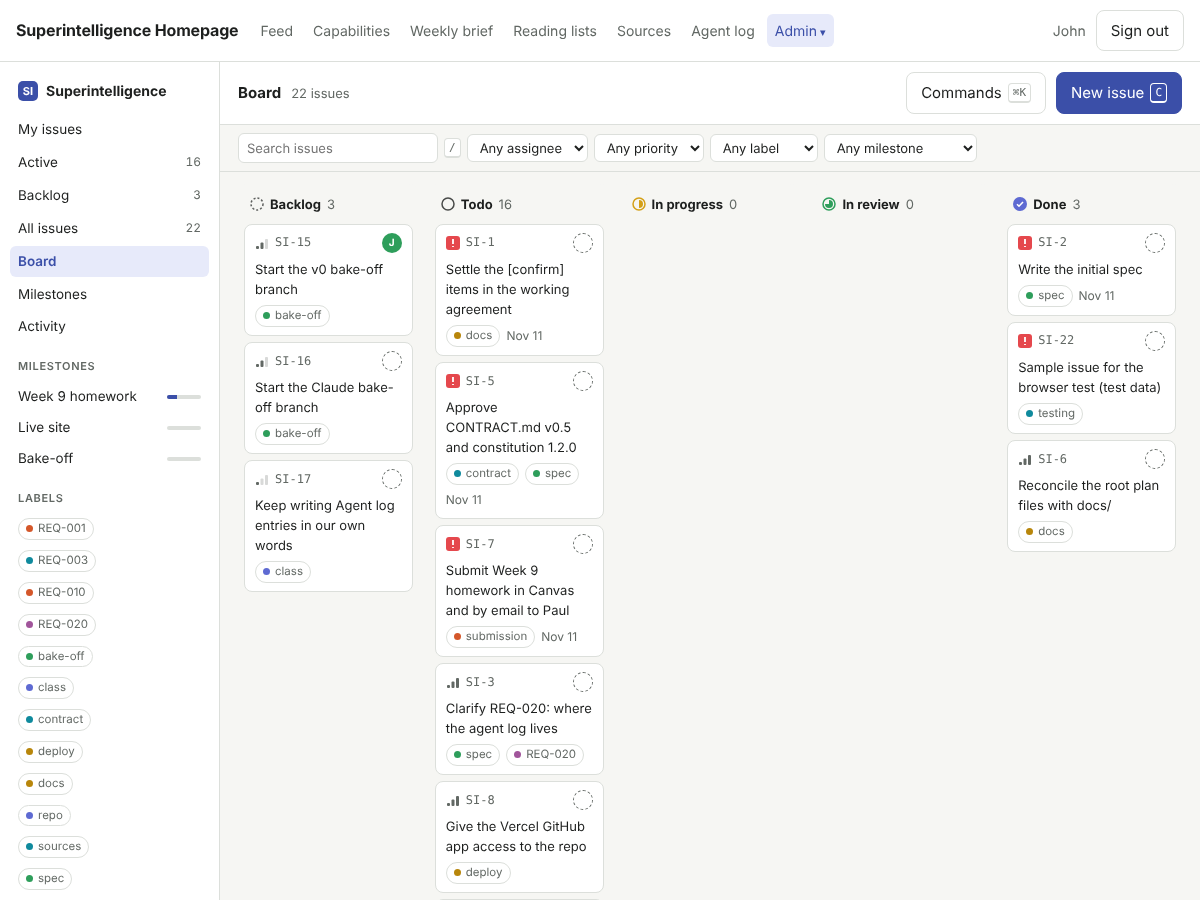
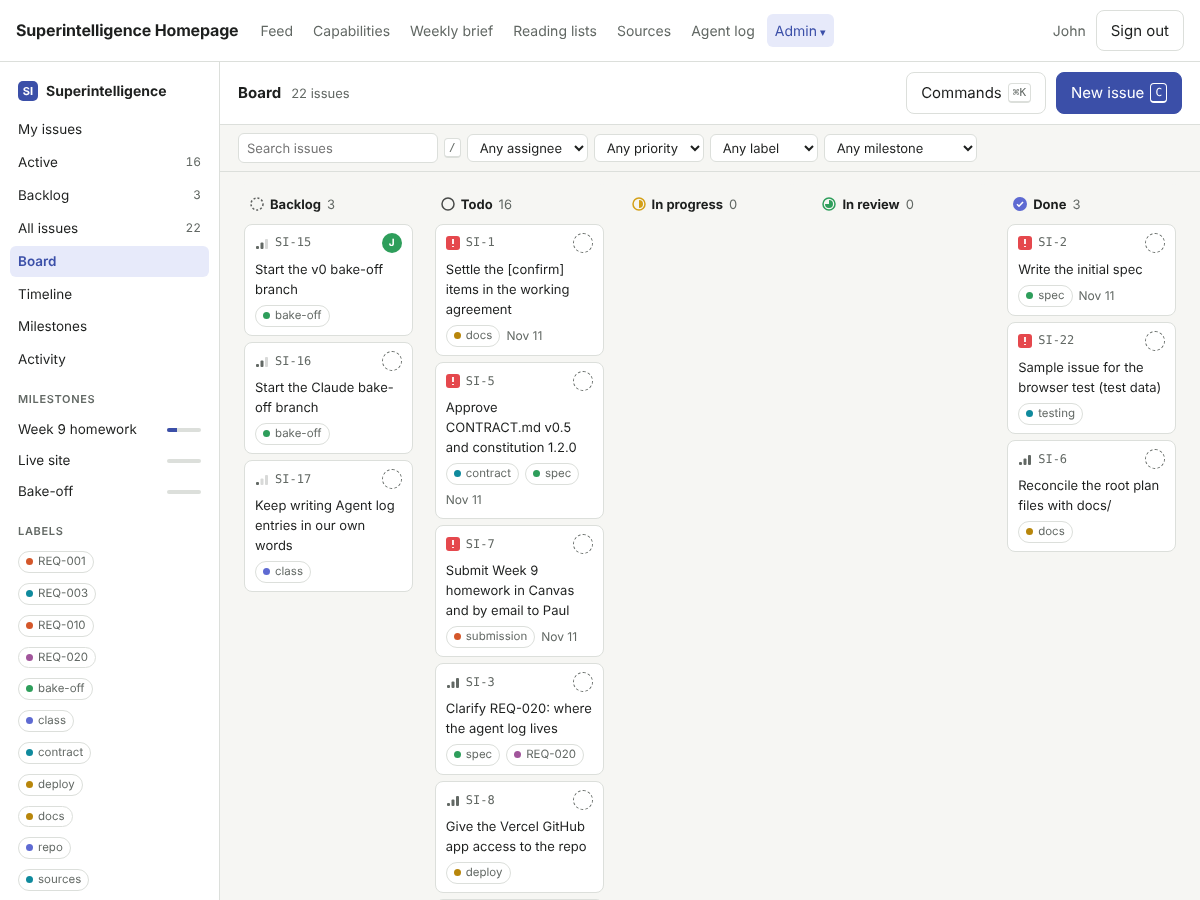
Project timeline: start dates, dependencies, conflict warnings, drag to reschedule
Process tooling (no product REQ). project_deps table and start_date column;
deps routes refuse self-links and loops; conflicts computed on the server.
Timeline view with day/week/month zoom, milestone groups, arrows, undo.
Browser test: 147 passed, 0 failed on SQLite and Postgres.

Changed region(s): [[0.0, 0.3111, 0.1233, 0.9956]]

diff --git a/modules/project/pages/project.html b/modules/project/pages/project.html
@@ -79,6 +79,30 @@
   .pal input { width: 100%; font: inherit; font-size: 15px; padding: 14px 16px; border: 0; border-bottom: 1px solid var(--line); background: none; color: var(--fg); outline: none; }
   .pal ul { list-style: none; margin: 0; padding: 6px; max-height: 50vh; overflow: auto; } .pal li { padding: 8px 10px; border-radius: 6px; font-size: 14px; display: flex; gap: 8px; align-items: center; cursor: pointer; }
   .pal li.on { background: var(--accent-soft); color: var(--accent); } .pal li .h { margin-left: auto; color: var(--muted); font-size: 12px; }
+  /* timeline */
+  .tlbar-top { display: flex; gap: 10px; align-items: center; padding: 10px 18px; flex-wrap: wrap; border-bottom: 1px solid var(--line); }
+  .tl { display: grid; grid-template-columns: 280px max-content; overflow: auto; max-height: calc(100vh - 220px); position: relative; }
+  .tlleft { position: sticky; left: 0; z-index: 3; background: var(--surface); border-right: 1px solid var(--line); }
+  .tlhead { height: 44px; position: sticky; top: 0; z-index: 2; background: var(--surface); border-bottom: 1px solid var(--line); }
+  .tlright .tlhead { position: sticky; top: 0; }
+  .tlm { position: absolute; top: 4px; font-size: 12px; font-weight: 600; } .tlt { position: absolute; top: 24px; font-size: 11px; color: var(--muted); transform: translateX(2px); }
+  .tlrow { height: 34px; display: flex; align-items: center; gap: 8px; padding: 0 12px; font-size: 13px; border-bottom: 1px solid var(--line); cursor: pointer; white-space: nowrap; overflow: hidden; }
+  .tlrow .key { font-family: var(--mono); font-size: 11px; color: var(--muted); } .tlrow .t { overflow: hidden; text-overflow: ellipsis; }
+  .tlrow.tlg { background: var(--bg); cursor: default; } .tlrow.tlg .n { color: var(--muted); font-size: 12px; }
+  .tlgrid { position: relative; background-image: linear-gradient(var(--line) 1px, transparent 1px); background-size: 100% 34px; }
+  .tlgrid .we { position: absolute; top: 0; bottom: 0; background: var(--bg); opacity: .6; }
+  .tlgrid .today { position: absolute; top: 0; bottom: 0; width: 0; border-left: 2px solid var(--accent); z-index: 1; } .tlgrid .today span { position: absolute; top: -2px; left: -22px; font-size: 10px; background: var(--accent); color: #fff; border-radius: 9px; padding: 0 6px; }
+  .tlbar { position: absolute; height: 22px; border-radius: 6px; background: var(--surface); border: 1px solid var(--accent); font-size: 12px; display: flex; align-items: center; gap: 6px; padding: 0 8px; overflow: hidden; cursor: grab; z-index: 2; touch-action: none; user-select: none; white-space: nowrap; }
+  .tlbar .fill { position: absolute; left: 0; top: 0; bottom: 0; background: var(--accent-soft); z-index: -1; } .tlbar .lbl2 { overflow: hidden; text-overflow: ellipsis; } .tlbar .pct { margin-left: auto; color: var(--muted); font-size: 11px; }
+  .tlbar .h { position: absolute; top: 0; bottom: 0; width: 7px; cursor: ew-resize; } .tlbar .h.l { left: 0; } .tlbar .h.r { right: 0; }
+  .tlbar.done { opacity: .6; } .tlbar.conflict { border-color: var(--bad); box-shadow: 0 0 0 1px var(--bad); }
+  .tlgbar { position: absolute; height: 5px; border-radius: 9px; background: var(--line); overflow: hidden; } .tlgbar i { display: block; height: 100%; background: var(--accent); }
+  .tlsched { position: absolute; font: inherit; font-size: 11px; padding: 2px 8px; border: 1px dashed var(--muted); border-radius: 6px; background: var(--surface); color: var(--muted); cursor: pointer; z-index: 2; }
+  .tlsvg { position: absolute; inset: 0; pointer-events: none; z-index: 1; } .tlsvg path { fill: none; stroke: var(--muted); stroke-width: 1.3; } .tlsvg path.bad { stroke: var(--bad); }
+  .tlsvg .ahp { fill: var(--muted); stroke: none; } .tlsvg .ahp.bad { fill: var(--bad); }
+  .tlfoot { display: flex; justify-content: space-between; align-items: flex-start; gap: 12px; padding: 10px 18px; border-top: 1px solid var(--line); }
+  .tlwarn { color: var(--bad); font-size: 13px; }
+  .deps { display: flex; flex-wrap: wrap; gap: 4px; }
   .toast { position: fixed; bottom: 18px; left: 50%; transform: translateX(-50%); background: var(--fg); color: var(--surface); padding: 8px 14px; border-radius: 8px; font-size: 13px; z-index: 40; }
   @media (max-width: 760px) {
     .pm { grid-template-columns: minmax(0, 1fr); }
@@ -99,6 +123,7 @@
     <button class="nv" data-view="backlog">Backlog <span class="n" data-count="backlog"></span></button>
     <button class="nv" data-view="all">All issues <span class="n" data-count="all"></span></button>
     <button class="nv" data-view="board">Board</button>
+    <button class="nv" data-view="timeline">Timeline</button>
     <button class="nv" data-view="milestones">Milestones</button>
     <button class="nv" data-view="activity">Activity</button>
     <h2>Milestones</h2><div class="ms-nav" id="msNav"></div>
@@ -155,6 +180,7 @@ const VIEWS = {
   backlog: { title: "Backlog", query: { status: "backlog" }, groups: true },
   all: { title: "All issues", query: {}, groups: true },
   board: { title: "Board", query: { status: "backlog,todo,in_progress,in_review,done", sort: "manual" }, board: true },
+  timeline: { title: "Timeline", query: { status: "backlog,todo,in_progress,in_review,done" }, timeline: true },
   milestones: { title: "Milestones", special: true },
   activity: { title: "Activity", special: true },
 };
@@ -182,10 +208,10 @@ async function render() {
   if (view === "milestones") return renderMilestones();
   if (view === "activity") return renderActivity();
   const q = new URLSearchParams({ ...V.query }); for (const [k, v] of Object.entries(filters)) if (v !== "") q.set(k, v);
-  issues = (await api("/api/admin/project/issues?" + q)).issues;
+  const resp = await api("/api/admin/project/issues?" + q); issues = resp.issues;
   $("#viewCount").textContent = `${issues.length} issue${issues.length === 1 ? "" : "s"}`;
   if (!M.counts || !Object.keys(M.counts).length) { $("#body").innerHTML = `<div class="empty-st"><p>No issues yet.</p><p><button class="btn primary" id="starter" type="button">Load the project's open to-dos</button> <button class="btn" type="button" onclick="newIssue()">New issue</button></p><p class="small">Loads the checklist from docs/OUR_PARTS.md as issues in three milestones: Week 9 homework, Live site, Bake-off.</p></div>`; $("#starter").onclick = loadStarter; return; }
-  V.board ? renderBoard() : renderList();
+  V.timeline ? renderTimeline(resp.conflicts || []) : V.board ? renderBoard() : renderList();
 }
 function rowHtml(i, idx) {
   return `<div class="irow ${idx === sel ? "sel" : ""}" data-n="${i.number}" data-idx="${idx}" role="button" tabindex="-1">
@@ -230,6 +256,93 @@ function renderBoard() {
     };
   });
 }
+/* ---------- timeline (dependencies, drag to move or resize, undo) ---------- */
+const DAY = 864e5, PX = { day: 34, week: 13, month: 4.5 };
+let TL = { zoom: "week", undo: [] };
+const toMs = (d) => Date.parse(d + "T00:00:00Z"), toIso = (ms) => new Date(ms).toISOString().slice(0, 10);
+const PROGRESS = { backlog: 0, todo: 0, in_progress: 50, in_review: 75, done: 100 };
+function renderTimeline(conflicts) {
+  const px = PX[TL.zoom], items = issues.filter((i) => i.status !== "canceled");
+  const today = toMs(toIso(Date.now()));
+  const span = (i) => { const s = toMs(i.start_date || i.due_date), e = toMs(i.due_date || i.start_date); return [Math.min(s, e), Math.max(s, e)]; };
+  const dated = items.filter((i) => i.start_date || i.due_date);
+  let min = Math.min(today - 14 * DAY, ...dated.map((i) => span(i)[0])) - 7 * DAY, max = Math.max(today + 49 * DAY, ...dated.map((i) => span(i)[1])) + 14 * DAY;
+  min -= ((new Date(min).getUTCDay() + 6) % 7) * DAY; // start on a Monday
+  const x = (ms) => ((ms - min) / DAY) * px, W = x(max);
+  // Header ticks
+  const ticks = []; const months = [];
+  for (let t = min; t <= max; t += DAY) {
+    const d = new Date(t), first = d.getUTCDate() === 1;
+    if (first || t === min) months.push(`<span class="tlm" style="left:${x(t)}px">${d.toLocaleDateString("en-US", { month: "long", timeZone: "UTC" })}</span>`);
+    if (TL.zoom === "day" || (TL.zoom === "week" && d.getUTCDay() === 1) || (TL.zoom === "month" && first)) ticks.push(`<span class="tlt" style="left:${x(t)}px">${d.getUTCDate()}</span>`);
+  }
+  const weekendBands = TL.zoom === "month" ? "" : Array.from({ length: Math.ceil((max - min) / DAY) }, (_, k) => min + k * DAY).filter((t) => [0, 6].includes(new Date(t).getUTCDay())).map((t) => `<i class="we" style="left:${x(t)}px;width:${px}px"></i>`).join("");
+  // Rows: milestone groups, then their issues
+  const groups = [...M.milestones.map((m) => ({ id: m.id, name: m.name, items: items.filter((i) => i.milestone_id === m.id) })), { id: 0, name: "No milestone", items: items.filter((i) => !i.milestone_id) }].filter((g) => g.items.length);
+  const rows = [];
+  for (const g of groups) {
+    const gd = g.items.filter((i) => i.start_date || i.due_date), done = g.items.filter((i) => i.status === "done").length;
+    rows.push({ kind: "group", g, span: gd.length ? [Math.min(...gd.map((i) => span(i)[0])), Math.max(...gd.map((i) => span(i)[1]))] : null, pct: Math.round((100 * done) / g.items.length) });
+    for (const i of g.items) rows.push({ kind: "issue", i });
+  }
+  const conflictNums = new Set(conflicts.flatMap((c) => [c.issue, c.blockedBy]));
+  const RH = 34;
+  const left = rows.map((r) => r.kind === "group" ? `<div class="tlrow tlg"><b>${esc(r.g.name)}</b><span class="n">${r.g.items.length}</span></div>`
+    : `<div class="tlrow" data-n="${r.i.number}"><span>${SICON[r.i.status]}</span><span class="key">${r.i.key}</span><span class="t">${esc(r.i.title)}</span></div>`).join("");
+  const bars = rows.map((r, k) => {
+    const top = k * RH + 6;
+    if (r.kind === "group") return r.span ? `<div class="tlgbar" style="top:${top + 10}px;left:${x(r.span[0])}px;width:${Math.max(px, x(r.span[1] + DAY) - x(r.span[0]))}px"><i style="width:${r.pct}%"></i></div>` : "";
+    const i = r.i;
+    if (!i.start_date && !i.due_date) return `<button class="tlsched" type="button" data-sched="${i.number}" style="top:${top}px;left:${x(today)}px">Schedule</button>`;
+    const [s0, e0] = span(i), pct = PROGRESS[i.status] ?? 0;
+    return `<div class="tlbar ${i.status === "done" ? "done" : ""} ${conflictNums.has(i.number) ? "conflict" : ""}" data-bar="${i.number}" title="${esc(i.key + " " + i.title)}: ${toIso(s0)} → ${toIso(e0)}" style="top:${top}px;left:${x(s0)}px;width:${Math.max(px, x(e0 + DAY) - x(s0))}px">
+      <i class="fill" style="width:${pct}%"></i><span class="lbl2">${esc(i.title)}</span><span class="pct">${pct}%</span><b class="h l"></b><b class="h r"></b></div>`;
+  }).join("");
+  // Dependency arrows: from the blocker's end to the blocked issue's start
+  const rowOf = new Map(rows.map((r, k) => [r.i?.number, k]).filter(([n]) => n));
+  const arrows = items.flatMap((a) => (a.blocked_by || []).map((bn) => {
+    const b = items.find((z) => z.number === bn); if (!b || !(a.start_date || a.due_date) || !(b.start_date || b.due_date)) return "";
+    const x1 = x(span(b)[1] + DAY), y1 = rowOf.get(b.number) * RH + 17, x2 = x(span(a)[0]), y2 = rowOf.get(a.number) * RH + 17, bad = conflicts.some((c) => c.issue === a.number && c.blockedBy === b.number);
+    const mid = Math.max(x1 + 10, Math.min(x2 - 10, x1 + 10));
+    return `<path class="${bad ? "bad" : ""}" d="M${x1},${y1} H${mid} V${y2} H${x2 - 4}" marker-end="url(#ah${bad ? "b" : ""})"/>`;
+  })).join("");
+  $("#body").innerHTML = `<div class="tlbar-top"><div class="seg-btns" role="group" aria-label="Zoom">${["day", "week", "month"].map((z) => `<button type="button" data-zoom="${z}" aria-pressed="${TL.zoom === z}">${z[0].toUpperCase() + z.slice(1)}</button>`).join("")}</div><button class="btn" id="tlToday" type="button">Today</button>
+      <span class="small muted">Drag a bar to move it, its ends to change the dates. Add "blocked by" links in an issue.</span></div>
+    <div class="tl" id="tl"><div class="tlleft"><div class="tlhead"></div>${left}</div>
+      <div class="tlright" style="width:${W}px"><div class="tlhead">${months.join("")}${ticks.join("")}</div>
+        <div class="tlgrid" style="height:${rows.length * RH}px">${weekendBands}<i class="today" style="left:${x(today) + px / 2}px"><span>Today</span></i>${bars}
+          <svg class="tlsvg" width="${W}" height="${rows.length * RH}"><defs><marker id="ah" markerWidth="7" markerHeight="7" refX="6" refY="3.5" orient="auto"><path d="M0,0 L7,3.5 L0,7z" class="ahp"/></marker><marker id="ahb" markerWidth="7" markerHeight="7" refX="6" refY="3.5" orient="auto"><path d="M0,0 L7,3.5 L0,7z" class="ahp bad"/></marker></defs>${arrows}</svg></div></div></div>
+    <div class="tlfoot"><div class="tlwarn" role="status">${conflicts.map((c) => `<div>${esc(c.message)}</div>`).join("")}</div><button class="btn" id="tlUndo" type="button" ${TL.undo.length ? "" : "disabled"}>Undo</button></div>`;
+  $$("[data-zoom]").forEach((b) => (b.onclick = () => { TL.zoom = b.dataset.zoom; render(); }));
+  $("#tlToday").onclick = () => { $("#tl").scrollLeft = x(today) - 200; };
+  $("#tlUndo").onclick = async () => { const u = TL.undo.pop(); if (!u) return; await api(`/api/admin/project/issues/${u.n}`, { method: "PUT", body: u.body }); toast(`Undid the change to SI-${u.n}`); await loadMeta(); render(); };
+  $$(".tlrow[data-n]").forEach((r) => (r.onclick = () => openIssue(r.dataset.n)));
+  $$("[data-sched]").forEach((b) => (b.onclick = async () => { const n = b.dataset.sched, iss = issues.find((z) => String(z.number) === n); TL.undo.push({ n, body: { start_date: iss.start_date || null, due_date: iss.due_date || null } }); await api(`/api/admin/project/issues/${n}`, { method: "PUT", body: { start_date: toIso(today), due_date: toIso(today + 6 * DAY) } }); render(); }));
+  $$(".tlbar").forEach((bar) => {
+    bar.onpointerdown = (e) => {
+      e.preventDefault(); bar.setPointerCapture(e.pointerId);
+      const n = Number(bar.dataset.bar), iss = issues.find((z) => z.number === n), [s0, e0] = span(iss);
+      const r = bar.getBoundingClientRect(), mode = e.clientX - r.left < 8 ? "start" : r.right - e.clientX < 8 ? "end" : "move";
+      const x0 = e.clientX, L0 = bar.offsetLeft, W0 = bar.offsetWidth; let days = 0;
+      bar.onpointermove = (ev) => {
+        days = Math.round((ev.clientX - x0) / px);
+        if (mode === "move") bar.style.left = `${L0 + days * px}px`;
+        if (mode === "end") bar.style.width = `${Math.max(px, W0 + days * px)}px`;
+        if (mode === "start") { const d = Math.min(days, Math.round((W0 - px) / px)); bar.style.left = `${L0 + d * px}px`; bar.style.width = `${W0 - d * px}px`; }
+      };
+      bar.onpointerup = async () => {
+        bar.onpointermove = bar.onpointerup = null;
+        if (!days) return openIssue(n);
+        const ns = mode === "end" ? s0 : s0 + days * DAY, ne = mode === "start" ? e0 : e0 + days * DAY;
+        TL.undo.push({ n, body: { start_date: iss.start_date || null, due_date: iss.due_date || null } });
+        try { await api(`/api/admin/project/issues/${n}`, { method: "PUT", body: { start_date: toIso(Math.min(ns, ne)), due_date: toIso(Math.max(ns, ne)) } }); } catch (err) { TL.undo.pop(); toast(err.message); }
+        await loadMeta(); render();
+      };
+    };
+  });
+  if (!TL.scrolled) { TL.scrolled = true; $("#tl").scrollLeft = x(today) - 200; }
+}
+
 async function renderMilestones() {
   $("#viewCount").textContent = `${M.milestones.length}`;
   $("#body").innerHTML = `<div class="ms">${M.milestones.map((m) => `<div class="m"><div style="display:flex;gap:8px;align-items:baseline"><b>${esc(m.name)}</b><span class="small muted">${m.target_date ? "Target " + m.target_date : "No target date"}</span><span style="margin-left:auto" class="small">${m.done} / ${m.total} done</span></div>
@@ -270,7 +383,11 @@ async function openIssue(n) {
       <label>Assignee<select data-p="assignee_id">${opts([["", "Unassigned"], ...M.members.map((m) => [m.id, m.name])], i.assignee_id)}</select></label>
       <label>Milestone<select data-p="milestone_id">${opts([["", "No milestone"], ...M.milestones.map((m) => [m.id, m.name])], i.milestone_id)}</select></label>
       <label>Labels<input data-p="labels" value="${esc(i.labels.join(", "))}" placeholder="comma, separated" list="lblList"></label>
+      <label>Start date<input type="date" data-p="start_date" value="${esc(i.start_date || "")}"></label>
       <label>Due date<input type="date" data-p="due_date" value="${esc(i.due_date || "")}"></label>
+      <label>Blocked by<span class="deps">${(i.blocked_by || []).map((b) => `<span class="lbl">SI-${b} <button class="linkish" type="button" data-undep="${b}" aria-label="Remove SI-${b}">✕</button></span>`).join("") || '<span class="small muted">Nothing</span>'}</span>
+        <select id="addDep" aria-label="Add a blocking issue"><option value="">Add an issue it waits for…</option></select></label>
+      ${(i.blocks || []).length ? `<p class="small muted" style="margin:0">Blocks ${i.blocks.map((b) => "SI-" + b).join(", ")}</p>` : ""}
       <datalist id="lblList">${M.labels.map((l) => `<option value="${esc(l)}">`).join("")}</datalist>
       <p class="small muted" style="margin:0">Updated ${ago(i.updated_at)}${i.completed_at ? ` · done ${ago(i.completed_at)}` : ""}</p>
     </div></div></aside>`;
@@ -280,6 +397,11 @@ async function openIssue(n) {
   $("#dTitle").onchange = () => update(i.number, { title: $("#dTitle").value }, true);
   $("#dDesc").onchange = () => update(i.number, { description: $("#dDesc").value }, true);
   $$(".props [data-p]").forEach((el) => (el.onchange = () => update(i.number, { [el.dataset.p]: el.dataset.p === "priority" ? Number(el.value) : el.value || null }, true)));
+  api("/api/admin/project/issues?status=backlog,todo,in_progress,in_review,done").then((r) => {
+    $("#addDep")?.insertAdjacentHTML("beforeend", r.issues.filter((x) => x.number !== i.number && !(i.blocked_by || []).includes(x.number)).map((x) => `<option value="${x.number}">${x.key} ${esc(x.title.slice(0, 50))}</option>`).join(""));
+  });
+  if ($("#addDep")) $("#addDep").onchange = async () => { try { await api(`/api/admin/project/issues/${i.number}/deps`, { body: { depends_on: Number($("#addDep").value) } }); } catch (e) { toast(e.message); } await render(); openIssue(i.number); };
+  $$("[data-undep]").forEach((b) => (b.onclick = async () => { await api(`/api/admin/project/issues/${i.number}/deps/${b.dataset.undep}`, { method: "DELETE" }); await render(); openIssue(i.number); }));
   $("#cForm").onsubmit = async (e) => { e.preventDefault(); if (!$("#cBody").value.trim()) return; await api(`/api/admin/project/issues/${i.number}/comments`, { body: { body: $("#cBody").value } }); openIssue(i.number); render(); };
   $("#cBody").onkeydown = (e) => { if (e.key === "Enter" && (e.metaKey || e.ctrlKey)) $("#cForm").requestSubmit(); };
   $$("[data-delc]").forEach((b) => (b.onclick = async () => { await api(`/api/admin/project/comments/${b.dataset.delc}`, { method: "DELETE" }); openIssue(i.number); }));
@@ -352,7 +474,7 @@ function palette() {
 }
 function shortcuts() {
   $("#overlay").innerHTML = `<div class="scrim" id="scrim"></div><div class="modal" role="dialog" aria-label="Keyboard shortcuts"><div class="mi"><b>Keyboard shortcuts</b>
-    ${[["C", "New issue"], ["/", "Search"], ["J / K", "Move down / up"], ["Enter", "Open selected issue"], ["Esc", "Close"], ["⌘K or Ctrl+K", "Command menu (change status, priority, assignee; jump to an issue)"], ["G then B / A / M", "Go to Board, All issues, My issues"], ["?", "This list"]]
+    ${[["C", "New issue"], ["/", "Search"], ["J / K", "Move down / up"], ["Enter", "Open selected issue"], ["Esc", "Close"], ["⌘K or Ctrl+K", "Command menu (change status, priority, assignee; jump to an issue)"], ["G then B / T / A / M", "Go to Board, Timeline, All issues, My issues"], ["?", "This list"]]
       .map(([k, t]) => `<div style="display:flex;gap:10px"><span class="kbd" style="min-width:110px;text-align:center">${k}</span><span>${t}</span></div>`).join("")}</div></div>`;
   $("#scrim").onclick = () => ($("#overlay").innerHTML = "");
 }
@@ -364,7 +486,7 @@ document.addEventListener("keydown", (e) => {
   if (e.key === "Escape") { if ($(".pal")) return; if ($("#overlay").innerHTML) { if (open) closeIssue(); else $("#overlay").innerHTML = ""; } return; }
   const typing = /INPUT|TEXTAREA|SELECT/.test(document.activeElement?.tagName); if (typing || e.metaKey || e.ctrlKey || e.altKey || $("#overlay").innerHTML) return;
   const k = e.key.toLowerCase();
-  if (gPending) { gPending = false; if (k === "b") go("board"); else if (k === "a") go("all"); else if (k === "m") go("mine"); return; }
+  if (gPending) { gPending = false; if (k === "b") go("board"); else if (k === "t") go("timeline"); else if (k === "a") go("all"); else if (k === "m") go("mine"); return; }
   if (k === "g") { gPending = true; setTimeout(() => (gPending = false), 800); return; }
   if (k === "c") { e.preventDefault(); newIssue(); }
   else if (k === "/") { e.preventDefault(); $("#q").focus(); }

diff --git a/modules/project/routes.js b/modules/project/routes.js
@@ -34,6 +34,7 @@ module.exports = function mountProject(app, { db, auth, admin, wrap, str, bad, n
     if (b.milestone_id !== undefined) { f.milestone_id = b.milestone_id ? Number(b.milestone_id) : null; if (f.milestone_id && !(await db.get("SELECT id FROM project_milestones WHERE id = ?", f.milestone_id))) bad("Unknown milestone."); }
     if (b.labels !== undefined) f.labels = JSON.stringify(labelsOf(b.labels));
     if (b.due_date !== undefined) f.due_date = isoDate(b.due_date);
+    if (b.start_date !== undefined) f.start_date = isoDate(b.start_date);
     if (b.sort_order !== undefined) f.sort_order = Number(b.sort_order) || 0;
     return f;
   }
@@ -41,10 +42,12 @@ module.exports = function mountProject(app, { db, auth, admin, wrap, str, bad, n
   async function createIssue(b, actor) {
     const f = await fields({ status: "todo", priority: 0, ...b });
     if (!f.title) bad("Give the issue a title.");
+    if (f.start_date && f.due_date && f.start_date > f.due_date) bad("The start date has to be on or before the due date.");
     return db.tx(async (t) => {
       const n = ((await t.get("SELECT MAX(number) AS n FROM project_issues"))?.n || 0) + 1;
       const id = await t.insert(`INSERT INTO project_issues (number, title, description, status, priority, assignee_id, creator_id, milestone_id, labels, due_date, sort_order, created_at, updated_at, completed_at)
         VALUES (?, ?, ?, ?, ?, ?, ?, ?, ?, ?, ?, ?, ?, ?)`, n, f.title, f.description || "", f.status, f.priority, f.assignee_id || null, actor, f.milestone_id || null, f.labels || "[]", f.due_date || null, -Date.now(), now(), now(), f.status === "done" ? now() : null);
+      if (f.start_date) await t.run("UPDATE project_issues SET start_date = ? WHERE id = ?", f.start_date, id);
       await t.run("INSERT INTO project_activity (issue_id, actor_id, action, detail, at) VALUES (?, ?, 'created', '', ?)", id, actor, now());
       return n;
     });
@@ -61,6 +64,25 @@ module.exports = function mountProject(app, { db, auth, admin, wrap, str, bad, n
     };
   }));
 
+  // Dependencies: issue A is blocked by B (A can't start before B ends). Conflicts are computed, never stored.
+  const depsAll = async () => db.all("SELECT d.issue_id, d.depends_on, a.number AS a, b.number AS b FROM project_deps d JOIN project_issues a ON a.id = d.issue_id JOIN project_issues b ON b.id = d.depends_on");
+  const startOf = (i) => i.start_date || i.due_date;
+  function conflicts(issues, deps) {
+    const byNum = new Map(issues.map((i) => [i.number, i])), out = [];
+    for (const d of deps) {
+      const a = byNum.get(d.a), b = byNum.get(d.b);
+      if (!a || !b || a.status === "canceled" || b.status === "canceled") continue;
+      if (startOf(a) && b.due_date && startOf(a) <= b.due_date && b.status !== "done")
+        out.push({ issue: a.number, blockedBy: b.number, message: `${PREFIX}-${a.number} starts before ${PREFIX}-${b.number} ends (${startOf(a)} vs ${b.due_date})` });
+    }
+    return out;
+  }
+  async function wouldCycle(fromId, toId) { // adding fromId → toId; is toId already (transitively) blocked by fromId?
+    const seen = new Set(), stack = [toId];
+    while (stack.length) { const x = stack.pop(); if (x === fromId) return true; if (seen.has(x)) continue; seen.add(x); for (const r of await db.all("SELECT depends_on FROM project_deps WHERE issue_id = ?", x)) stack.push(r.depends_on); }
+    return false;
+  }
+
   app.get("/api/admin/project/issues", ...A, wrap(async (req) => {
     const w = ["1=1"], a = [], q = req.query;
     if (q.status) { const st = String(q.status).split(",").filter((s) => STATUS_IDS.includes(s)); if (st.length) { w.push(`i.status IN (${st.map(() => "?").join(",")})`); a.push(...st); } }
@@ -73,7 +95,9 @@ module.exports = function mountProject(app, { db, auth, admin, wrap, str, bad, n
     const text = str(q.q, 100).toLowerCase();
     if (text) { w.push("(LOWER(i.title) LIKE ? OR LOWER(i.description) LIKE ? OR CAST(i.number AS TEXT) = ?)"); a.push(`%${text}%`, `%${text}%`, text.replace(/^si-/, "")); }
     const rows = await db.all(`${SELECT} WHERE ${w.join(" AND ")} ORDER BY ${q.sort === "manual" ? "i.sort_order, " : ""}CASE i.priority WHEN 0 THEN 9 ELSE i.priority END, i.due_date IS NULL, i.due_date, i.number LIMIT 500`, ...a);
-    return { issues: rows.map(shape) };
+    const deps = await depsAll(), issues = rows.map(shape);
+    for (const i of issues) i.blocked_by = deps.filter((d) => d.a === i.number).map((d) => d.b);
+    return { issues, conflicts: conflicts(issues, deps) };
   }));
 
   app.post("/api/admin/project/issues", ...A, wrap(async (req) => {
@@ -85,20 +109,40 @@ module.exports = function mountProject(app, { db, auth, admin, wrap, str, bad, n
     const issue = await byNumber(req.params.n);
     const comments = await db.all("SELECT c.id, c.body, c.created_at, c.author_id, u.display_name AS author FROM project_comments c LEFT JOIN users u ON u.id = c.author_id WHERE c.issue_id = ? ORDER BY c.id", issue.id);
     const activity = await db.all("SELECT a.action, a.detail, a.at, u.display_name AS actor FROM project_activity a LEFT JOIN users u ON u.id = a.actor_id WHERE a.issue_id = ? ORDER BY a.id", issue.id);
+    const deps = await depsAll();
+    issue.blocked_by = deps.filter((d) => d.a === issue.number).map((d) => d.b);
+    issue.blocks = deps.filter((d) => d.b === issue.number).map((d) => d.a);
     return { issue, comments: comments.map((c) => ({ ...c, mine: c.author_id === req.user.id })), activity };
   }));
 
   app.put("/api/admin/project/issues/:n", ...A, wrap(async (req) => {
     const before = await byNumber(req.params.n), f = await fields(req.body);
+    const st = f.start_date !== undefined ? f.start_date : before.start_date, du = f.due_date !== undefined ? f.due_date : before.due_date;
+    if (st && du && st > du) bad("The start date has to be on or before the due date.");
     const changed = Object.keys(f).filter((k) => String(f[k] ?? "") !== String(k === "labels" ? JSON.stringify(before.labels) : before[k] ?? ""));
     if (!changed.length) return { issue: before };
     if (f.status) f.completed_at = f.status === "done" ? before.completed_at || now() : null;
     const cols = Object.keys(f);
     await db.run(`UPDATE project_issues SET ${cols.map((c) => `${c} = ?`).join(", ")}, updated_at = ? WHERE id = ?`, ...cols.map((c) => f[c]), now(), before.id);
     const after = await byNumber(req.params.n);
-    const show = { status: (v) => STATUSES.find((s) => s.id === v)?.label, priority: (v) => PRIORITIES.find((p) => p.id === Number(v))?.label, assignee_id: () => after.assignee_name || "nobody", milestone_id: () => after.milestone_name || "none", labels: () => after.labels.join(", ") || "none", due_date: (v) => v || "none" };
+    const show = { status: (v) => STATUSES.find((s) => s.id === v)?.label, priority: (v) => PRIORITIES.find((p) => p.id === Number(v))?.label, assignee_id: () => after.assignee_name || "nobody", milestone_id: () => after.milestone_name || "none", labels: () => after.labels.join(", ") || "none", due_date: (v) => v || "none", start_date: (v) => v || "none" };
     for (const k of changed) if (k !== "sort_order") await log(before.id, req.user.id, k === "description" ? "edited the description" : `set ${k.replace("_id", "").replace("_", " ")}`, k in show ? show[k](f[k]) : k === "title" ? f.title : "");
     return { issue: after };
+  }));
+
+  app.post("/api/admin/project/issues/:n/deps", ...A, wrap(async (req) => {
+    const a = await byNumber(req.params.n), b = await byNumber(String(req.body?.depends_on ?? "").replace(/^SI-/i, ""));
+    if (a.id === b.id) bad("An issue can't depend on itself.");
+    if (await wouldCycle(a.id, b.id)) bad(`${b.key} already depends on ${a.key}; that would make a loop.`);
+    await db.run("INSERT OR IGNORE INTO project_deps (issue_id, depends_on) VALUES (?, ?)", a.id, b.id);
+    await log(a.id, req.user.id, "is blocked by", b.key);
+    return { ok: true };
+  }));
+  app.delete("/api/admin/project/issues/:n/deps/:m", ...A, wrap(async (req) => {
+    const a = await byNumber(req.params.n), b = await byNumber(req.params.m);
+    await db.run("DELETE FROM project_deps WHERE issue_id = ? AND depends_on = ?", a.id, b.id);
+    await log(a.id, req.user.id, "is no longer blocked by", b.key);
+    return { ok: true };
   }));
 
   app.delete("/api/admin/project/issues/:n", ...A, wrap(async (req) => {

diff --git a/test/e2e.js b/test/e2e.js
@@ -209,6 +209,26 @@ const story = (p, text) => p.locator('#feed .story', { hasText: text });
   await john.click('[data-days="30"]'); await john.waitForTimeout(400); ok((await john.textContent('#areaNote')).includes('30 days'), 'time window switches');
   await john.screenshot({ path: 'shots/capabilities.png', fullPage: true });
 
+  console.log('Project timeline');
+  const dIso = (k) => new Date(Date.now() + k * 864e5).toISOString().slice(0, 10);
+  const tA = (await j(john, '/api/admin/project/issues', 'POST', { title: 'Sample: API contracts (test data)', start_date: dIso(0), due_date: dIso(5) })).issue;
+  const tB = (await j(john, '/api/admin/project/issues', 'POST', { title: 'Sample: iOS app (test data)', start_date: dIso(8), due_date: dIso(14) })).issue;
+  ok(tA.start_date === dIso(0) && tB.due_date === dIso(14), 'issues take a start and a due date');
+  ok((await j(john, `/api/admin/project/issues/${tA.number}`, 'PUT', { start_date: dIso(9) })).status === 400, 'a start after the due date is refused');
+  await j(john, `/api/admin/project/issues/${tB.number}/deps`, 'POST', { depends_on: tA.number });
+  ok((await j(john, `/api/admin/project/issues/${tA.number}/deps`, 'POST', { depends_on: tB.number })).status === 400, 'a dependency loop is refused');
+  const tli = await j(john, '/api/admin/project/issues?status=todo');
+  ok(tli.issues.find((x) => x.number === tB.number).blocked_by.includes(tA.number) && !tli.conflicts.some((c) => c.issue === tB.number), 'B is blocked by A, and starting after A ends is no conflict');
+  await john.goto(B + '/m/project#/timeline'); await john.waitForSelector(`.tlbar[data-bar="${tB.number}"]`);
+  ok((await john.$$('.tlsvg path[marker-end]')).length >= 1 && (await john.$$('.tlsched')).length > 0, 'the timeline draws bars, a dependency arrow, and Schedule buttons for undated issues');
+  const bb = await john.$(`.tlbar[data-bar="${tB.number}"]`); await bb.scrollIntoViewIfNeeded(); const box = await bb.boundingBox();
+  await john.mouse.move(box.x + box.width / 2, box.y + box.height / 2); await john.mouse.down(); await john.mouse.move(box.x + box.width / 2 - 13 * 6, box.y + box.height / 2, { steps: 8 }); await john.mouse.up();
+  await john.waitForFunction(() => /starts before/.test(document.querySelector('.tlwarn')?.textContent || ''), null, { timeout: 5000 }).catch(() => {});
+  ok((await john.textContent('.tlwarn')).includes(`SI-${tB.number} starts before SI-${tA.number} ends`) && (await john.$$('.tlbar.conflict')).length >= 1, 'dragging B before A ends warns that it now starts before its dependency ends');
+  await john.click('#tlUndo'); await john.waitForFunction(() => !/starts before/.test(document.querySelector('.tlwarn')?.textContent || ''), null, { timeout: 5000 }).catch(() => {});
+  ok(!(await john.textContent('.tlwarn')).includes('starts before') && (await j(john, `/api/admin/project/issues/${tB.number}`)).issue.start_date === dIso(8), 'Undo puts the dates back and clears the warning');
+  await john.screenshot({ path: 'shots/timeline.png' });
+
   console.log('Modules, generative UI and judges');
   const mods = await j(john, '/api/modules');
   ok(['blocks-core', 'generative-ui', 'decision', 'capabilities', 'admin', 'project'].every((id) => mods.modules.some((m) => m.id === id)) && mods.points.some((p) => p.id === 'decision.judges' && p.owner === 'decision'), 'kernel loads every enabled module; decision owns its extension point');
@@ -284,7 +304,7 @@ const story = (p, text) => p.locator('#feed .story', { hasText: text });
   console.log('Phone width');
   const ph = await (await b.newContext({ viewport: { width: 390, height: 844 }, deviceScaleFactor: 2 })).newPage();
   await ph.goto(B); await ph.fill('#username', 'john'); await ph.fill('#password', 'correct-horse-9'); await ph.click('#authBtn'); await ph.waitForSelector('#feed .story');
-  for (const path of ['/', '/story?id=' + sid, '/brief', '/lists', '/sources', '/agent-log', '/m/admin', '/m/project', '/m/capabilities', '/m/studio', '/m/decide', '/m/view?name=capability-snapshot', '/m/codemap']) { await ph.goto(B + path); await ph.waitForTimeout(600); ok(!(await ph.evaluate(() => document.documentElement.scrollWidth > innerWidth + 1)), 'no sideways scroll: ' + path.split('?')[0]); }
+  for (const path of ['/', '/story?id=' + sid, '/brief', '/lists', '/sources', '/agent-log', '/m/admin', '/m/project', '/m/capabilities', '/m/studio', '/m/decide', '/m/view?name=capability-snapshot', '/m/codemap', '/m/project#/timeline']) { await ph.goto(B + path); await ph.waitForTimeout(600); ok(!(await ph.evaluate(() => document.documentElement.scrollWidth > innerWidth + 1)), 'no sideways scroll: ' + path.split('?')[0]); }
   await ph.goto(B); await ph.waitForSelector('#feed .story'); await ph.screenshot({ path: 'shots/phone-feed.png' });
   await john.goto(B); await john.waitForSelector('#feed .story'); await john.screenshot({ path: 'shots/feed.png', fullPage: true });
   await john.goto(B + '/brief'); await john.waitForSelector('#brief .jr-metric'); await john.screenshot({ path: 'shots/brief.png', fullPage: true });

diff --git a/modules/project/module.js b/modules/project/module.js
@@ -1,8 +1,8 @@
 // Project workspace: a Linear-style tracker for running the project itself (issues, milestones, comments, activity).
 module.exports = {
   id: "project",
-  version: "1.0.0",
-  description: "Linear-style project workspace for admins: issues, board, milestones, activity, command menu.",
+  version: "1.1.0",
+  description: "Linear-style project workspace for admins: issues, board, timeline with dependencies, milestones, activity, command menu.",
   setup(ctx) {
     // Tables owned by this module. ${ID} and ${T} become the engine's id and timestamp types.
     ctx.point("db.schema").addSql(`
@@ -16,7 +16,11 @@ CREATE TABLE IF NOT EXISTS project_comments (id \${ID}, issue_id INTEGER NOT NUL
 CREATE TABLE IF NOT EXISTS project_activity (id \${ID}, issue_id INTEGER REFERENCES project_issues(id) ON DELETE CASCADE,
   actor_id INTEGER REFERENCES users(id) ON DELETE SET NULL, action TEXT NOT NULL, detail TEXT DEFAULT '', at TEXT DEFAULT \${T});
 CREATE INDEX IF NOT EXISTS idx_pact_issue ON project_activity(issue_id, id);
+CREATE TABLE IF NOT EXISTS project_deps (issue_id INTEGER NOT NULL REFERENCES project_issues(id) ON DELETE CASCADE,
+  depends_on INTEGER NOT NULL REFERENCES project_issues(id) ON DELETE CASCADE, PRIMARY KEY (issue_id, depends_on));
 `);
+    // Timeline: when work starts (due_date is when it ends).
+    ctx.point("db.schema").addColumns([["project_issues", "start_date", "TEXT"]]);
     ctx.point("http.routes").add((app, deps) => require("./routes")(app, deps));
     ctx.point("ui.nav").add({ href: "/m/project", label: "Project", admin: true, order: 80 });
   },

diff --git a/docs/INTERFACES.md b/docs/INTERFACES.md
@@ -23,6 +23,7 @@ Every interface change gets a row here. Breaking changes bump the major version 
 | 0.7 | Nov 5, 2026 | **Proposed by John (built with Claude), needs Matt's approval.** Modular monolith: features become plug-in modules loaded by `kernel/` (see `modules/README.md`). No table changes (project tables now declared by the project module, same shapes). Admin, project and capabilities pages move to `/m/admin`, `/m/project`, `/m/capabilities` (old paths redirect). `GET /api/me` adds `user.nav`. New routes: `GET /api/modules` (admins), `GET /api/ui/catalog`, `POST /api/ui/validate`, `GET /api/ui/views`, `GET /api/ui/views/:name`, `GET /api/judges` and `POST /api/judges/:id/run` (admins). JEV and CLEF are external judges: the app records and cross-checks their results and doesn't define them. | John ☐ · Matt ☐ |
 | 0.8 | Nov 6, 2026 | **Proposed by John (built with Claude), needs Matt's approval.** Align with the shared spec (Matt's `specs/001-superintelligence-homepage`): superintelligence-only feed (REQ-003: `stories.in_scope`, rule in `lib/ontology.json` → `scope`; off-topic stories are stored but left out of `/api/stories`), the seven spec topics as the top level (finer topics become children), newest first by default (`/api/stories` default `sort=new`, REQ-002), Twitter/X links dropped at ingestion (REQ-006), superintelligence-focused default sources (REQ-001). `story.analysis.scope` = `{in, reason, rule}`; `/api/admin/stories?scope=out`. Trace: `docs/SPEC_TRACE.md`. | John ☐ · Matt ☐ |
 | 0.9 | Nov 6, 2026 | Codebase map module (developer tooling): `GET /api/codemap`, `GET /api/codemap/trace?id=`, `GET /api/codemap/ask?q=` (admins only); nav entries with `admin: true` now render in one Admin menu. No table changes. | logged by John |
+| 1.0 | Nov 6, 2026 | Project module 1.1.0: dependency timeline. New table `project_deps(issue_id, depends_on)`, new column `project_issues.start_date`. `GET /api/admin/project/issues` returns `{issues, conflicts}` (each issue carries `blocked_by`; a conflict is a task that starts before something it depends on ends); `GET …/issues/:n` adds `blocked_by` and `blocks`; `POST …/issues/:n/deps {depends_on}` (refuses self-links and loops) and `DELETE …/issues/:n/deps/:m`. Start after due is refused with 400. Process tooling, no product REQ. | logged by John |
 
 **Done means:** a classmate can sign up on the live site, see a grouped, tagged feed from at least 8 sources, and vote on and save stories that are still there the next time they sign in.
 

diff --git a/modules/project/README.md b/modules/project/README.md
@@ -4,3 +4,12 @@ Linear-style project workspace for running the project: issues (SI-n) with statu
 
 - **Tables** (owned here, via `db.schema`): `project_issues`, `project_milestones`, `project_comments`, `project_activity`.
 - **Routes**: `/api/admin/project/*` (`routes.js`). **Page**: `/m/project` (old `/project` redirects). **Nav**: Project (admins). **Starter**: `starter.json`.
+
+## Timeline (1.1.0)
+
+`/m/project#/timeline` (shortcut G then T): issues with a start and due date drawn as bars, grouped by milestone, with day/week/month zoom, a today line and weekend bands.
+
+- **Dependencies:** "Blocked by" in the issue drawer adds links (`project_deps`). The server refuses self-links and loops. Arrows join each task to what it waits on.
+- **Conflicts:** a task that starts before something it depends on ends turns red, and the timeline lists a warning. Conflicts are worked out on the server (`conflicts()` in `routes.js`), so the list and the API agree.
+- **Editing:** drag a bar to move it, or drag either end to change its start or due date. Dates snap to days and save when you let go. Undo puts back the last move.
+- Fits `/speckit-tasks`, which writes dependency-ordered tasks: import them as issues and link each to what it depends on.

diff --git a/docs/SPEC_TRACE.md b/docs/SPEC_TRACE.md
@@ -21,4 +21,4 @@ How this build meets the shared spec ([specs/001-superintelligence-homepage/spec
 
 ## Beyond the spec
 
-Built before the spec was ratified and not traced to a REQ (constitution principle III): notes, reading lists, the weekly brief, suggested sources, the admin and project modules, the capability tracker and significance score, generative UI and judges, the codebase map (developer tooling), the agent kit. Under the constitution these stay out of the shared bake-off scope unless both partners add them to the spec. They're kept as modules, so each can be switched off in `modules/modules.json` without touching the core.
+Built before the spec was ratified and not traced to a REQ (constitution principle III): notes, reading lists, the weekly brief, suggested sources, the admin and project modules, the capability tracker and significance score, generative UI and judges, the codebase map and the project timeline (developer and process tooling), the agent kit. Under the constitution these stay out of the shared bake-off scope unless both partners add them to the spec. They're kept as modules, so each can be switched off in `modules/modules.json` without touching the core.
